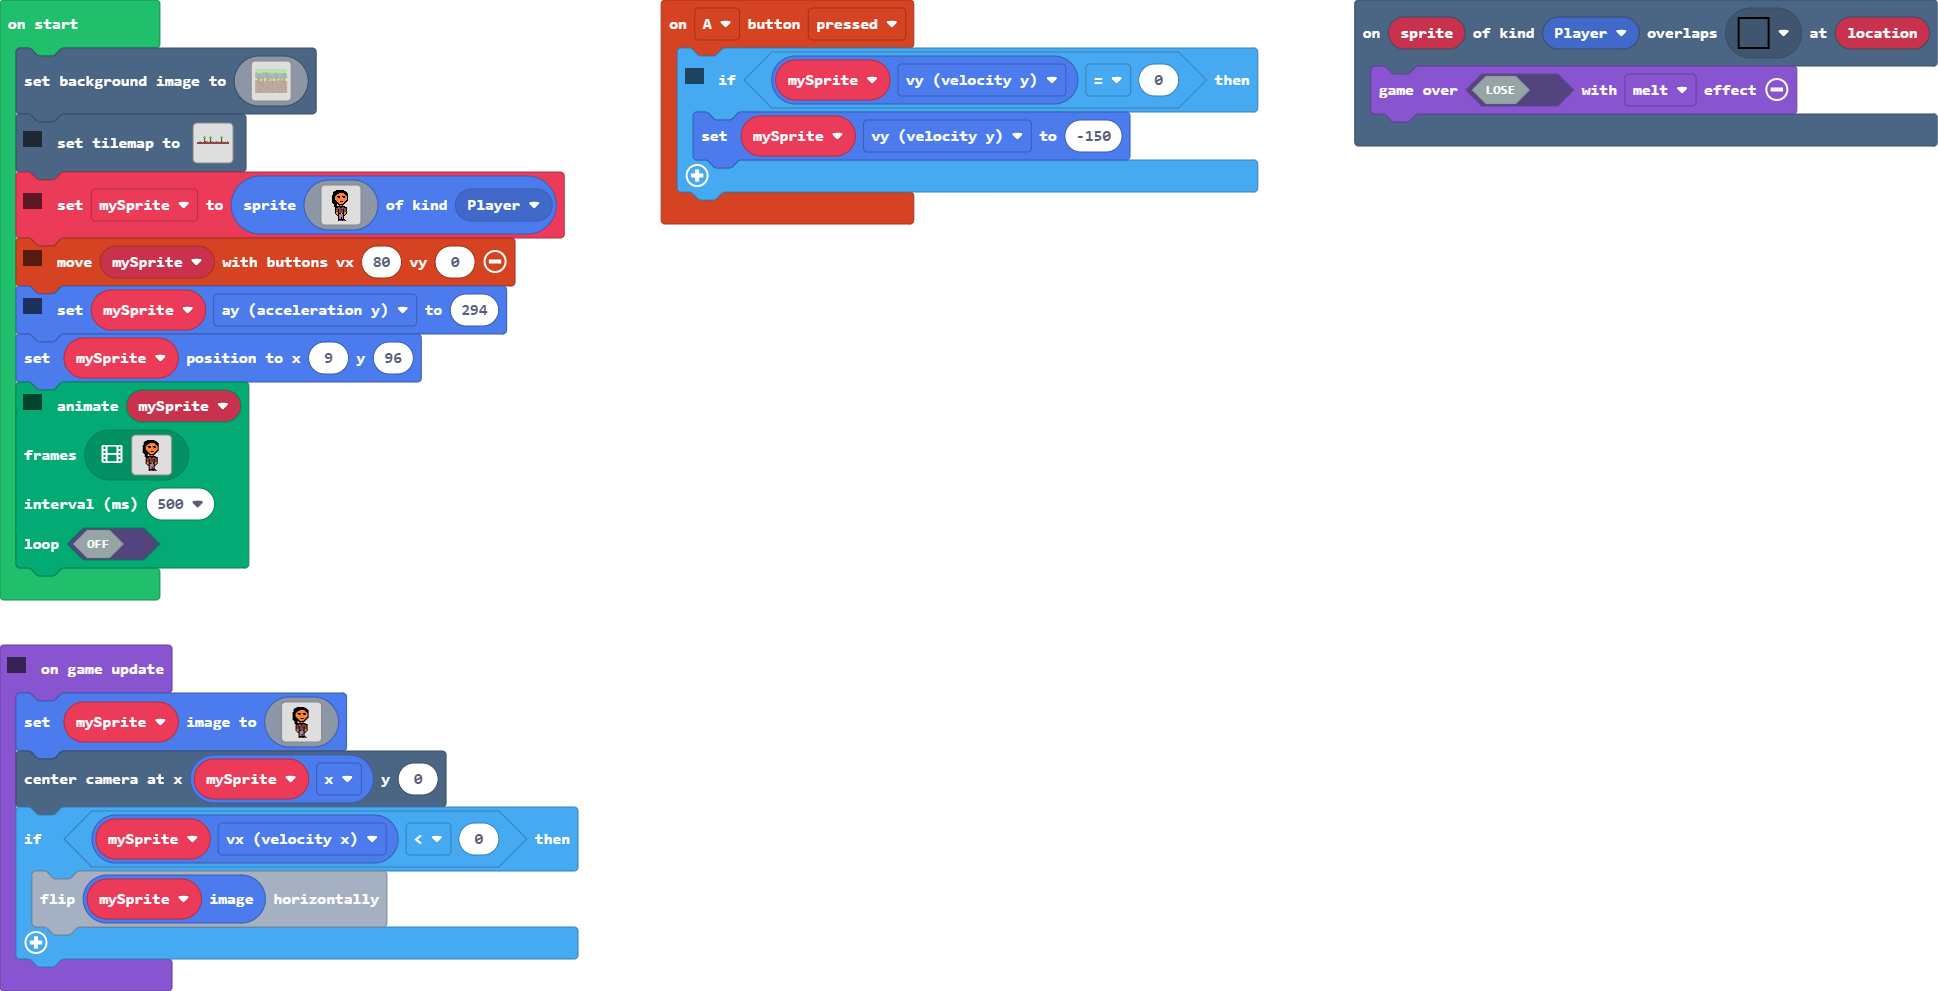
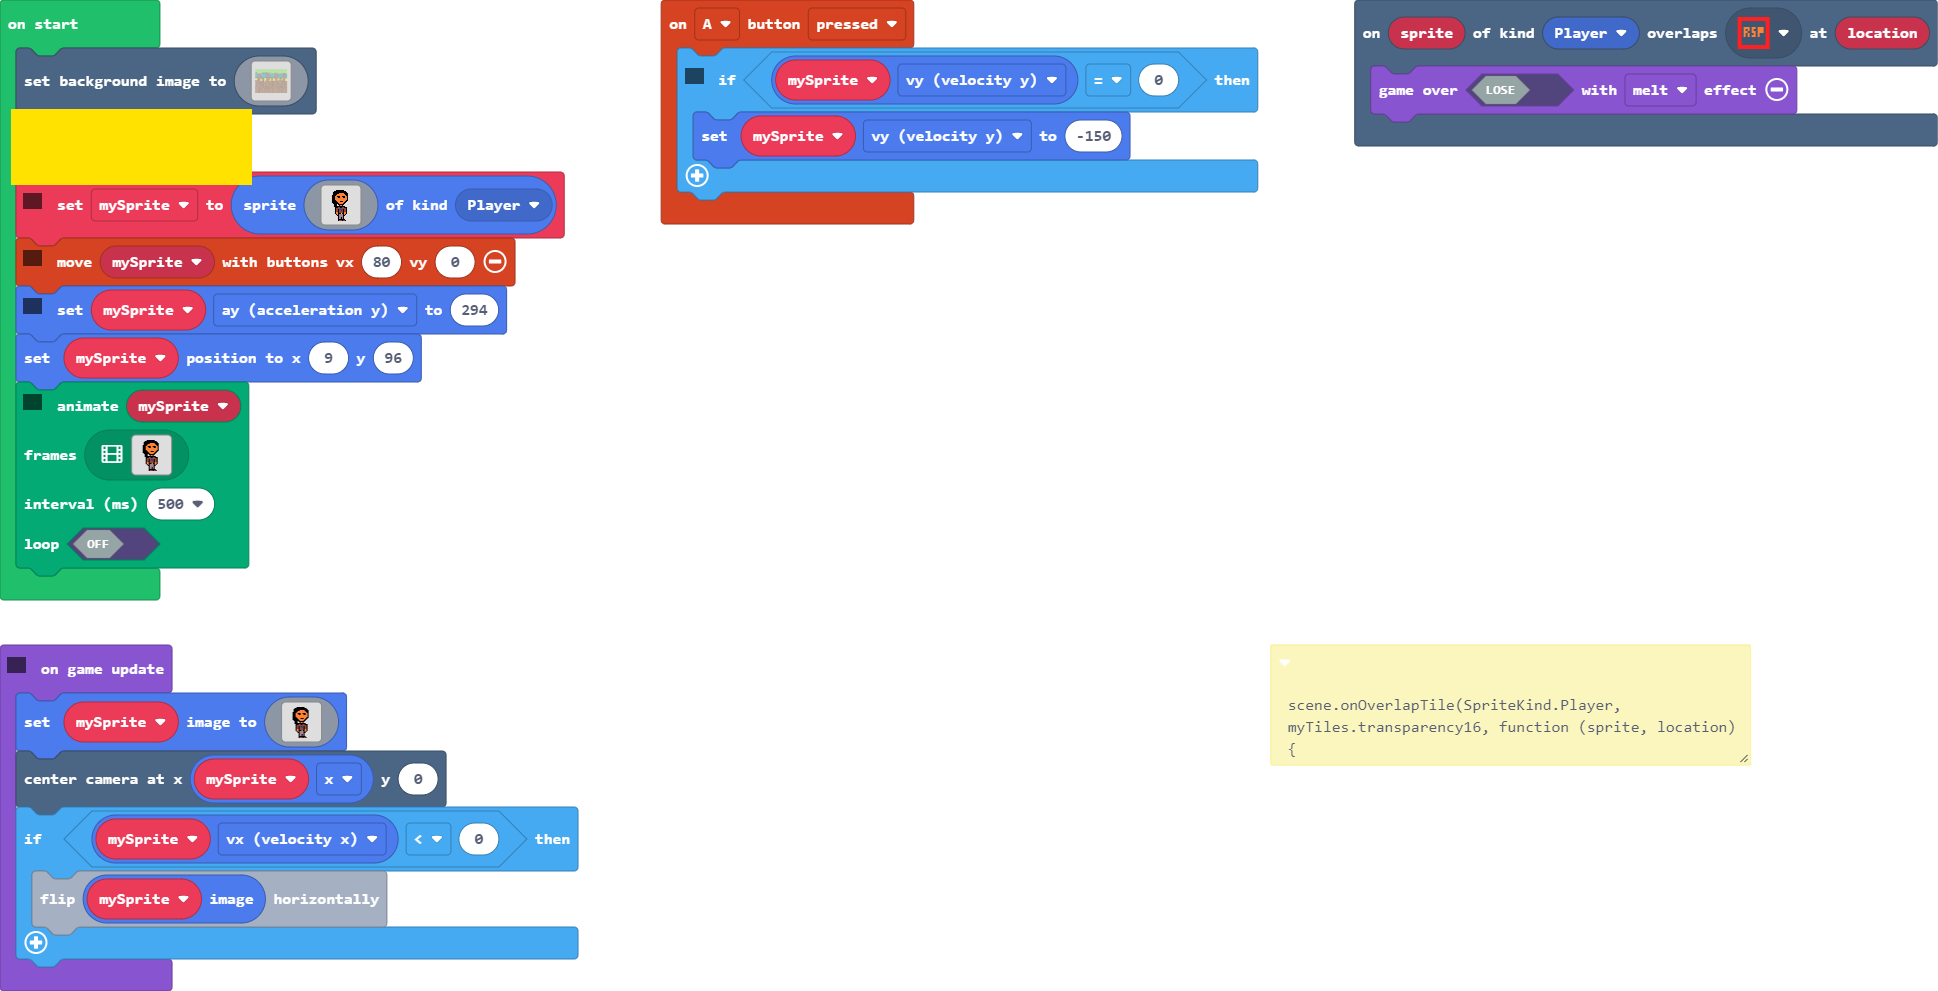
Update pxt.json, main.blocks, main.ts, tilemap.g.jres, tilemap.g.ts

Changed region(s): [[0.6502, 0.6357, 0.9288, 0.7871], [0.0, 0.0908, 0.1548, 0.2119], [0.8978, 0.0, 0.9288, 0.0605]]

diff --git a/tilemap.g.ts b/tilemap.g.ts
@@ -17,12 +17,6 @@ namespace myTiles {
     //% fixedInstance jres blockIdentity=images._tile
     export const tile7 = image.ofBuffer(hex``);
     //% fixedInstance jres blockIdentity=images._tile
-    export const tile8 = image.ofBuffer(hex``);
-    //% fixedInstance jres blockIdentity=images._tile
-    export const tile9 = image.ofBuffer(hex``);
-    //% fixedInstance jres blockIdentity=images._tile
-    export const tile10 = image.ofBuffer(hex``);
-    //% fixedInstance jres blockIdentity=images._tile
     export const tile11 = image.ofBuffer(hex``);
     //% fixedInstance jres blockIdentity=images._tile
     export const tile12 = image.ofBuffer(hex``);
@@ -38,6 +32,12 @@ namespace myTiles {
     export const tile17 = image.ofBuffer(hex``);
     //% fixedInstance jres blockIdentity=images._tile
     export const tile18 = image.ofBuffer(hex``);
+    //% fixedInstance jres blockIdentity=images._tile
+    export const tile19 = image.ofBuffer(hex``);
+    //% fixedInstance jres blockIdentity=images._tile
+    export const tile20 = image.ofBuffer(hex``);
+    //% fixedInstance jres blockIdentity=images._tile
+    export const tile21 = image.ofBuffer(hex``);
 
     helpers.registerTilemapFactory(function(name: string) {
         switch(helpers.stringTrim(name)) {
@@ -203,24 +203,24 @@ namespace myTiles {
 ........................................................................................................................
 ........................................................................................................................
 `, [myTiles.transparency16,myTiles.tile3], TileScale.Sixteen)
[1 lines of base64/hex data omitted]
-................................
-................................
-................................
-................................
-................................
-................................
-................................
-22222222222222222222222222222222
-22222222222222222222222222222222
-................................
-................................
-................................
-................................
-................................
-................................
-................................
-`, [myTiles.transparency16,myTiles.tile5,myTiles.tile9,myTiles.tile10,myTiles.tile1,myTiles.tile11,myTiles.tile15,myTiles.tile2,myTiles.tile16,myTiles.tile17,myTiles.tile18], TileScale.Sixteen)
[1 lines of base64/hex data omitted]
+........................................................................................................................................................................................................
+........................................................................................................................................................................................................
+........................................................................................................................................................................................................
+........................................................................................................................................................................................................
+........................................................................................................................................................................................................
+........................................................................................................................................................................................................
+........................................................................................................................................................................................................
+2222222222222222.....2222222222222222222222222222222222222222222222222.....2222222222222222222222222222222222222...2..2222222222222222222222222222222222222.2....222222222222222222222222222222222222222
+2222222222222222.....2222222222222222222222222222222222222222222222222.....2222222222222222222222222222222222222......2222222222222222222222222222222222222......222222222222222222222222222222222222222
+........................................................................................................................................................................................................
+........................................................................................................................................................................................................
+........................................................................................................................................................................................................
+........................................................................................................................................................................................................
+........................................................................................................................................................................................................
+........................................................................................................................................................................................................
+........................................................................................................................................................................................................
+`, [myTiles.transparency16,myTiles.tile11,myTiles.tile2,myTiles.tile7,myTiles.tile4], TileScale.Sixteen)
         }
         return null;
     })

diff --git a/main.ts b/main.ts
@@ -1,10 +1,15 @@
+/**
+ * scene.onOverlapTile(SpriteKind.Player, myTiles.transparency16, function (sprite, location) {
+ * 
+ * })
+ */
 controller.A.onEvent(ControllerButtonEvent.Pressed, function () {
     // if character is stand on the platform or ground can jump
     if (mySprite.vy == 0) {
         mySprite.vy = -150
     }
 })
-scene.onOverlapTile(SpriteKind.Player, myTiles.tile13, function (sprite, location) {
+scene.onOverlapTile(SpriteKind.Player, myTiles.tile11, function (sprite, location) {
     game.over(false, effects.melt)
 })
 let mySprite: Sprite = null
